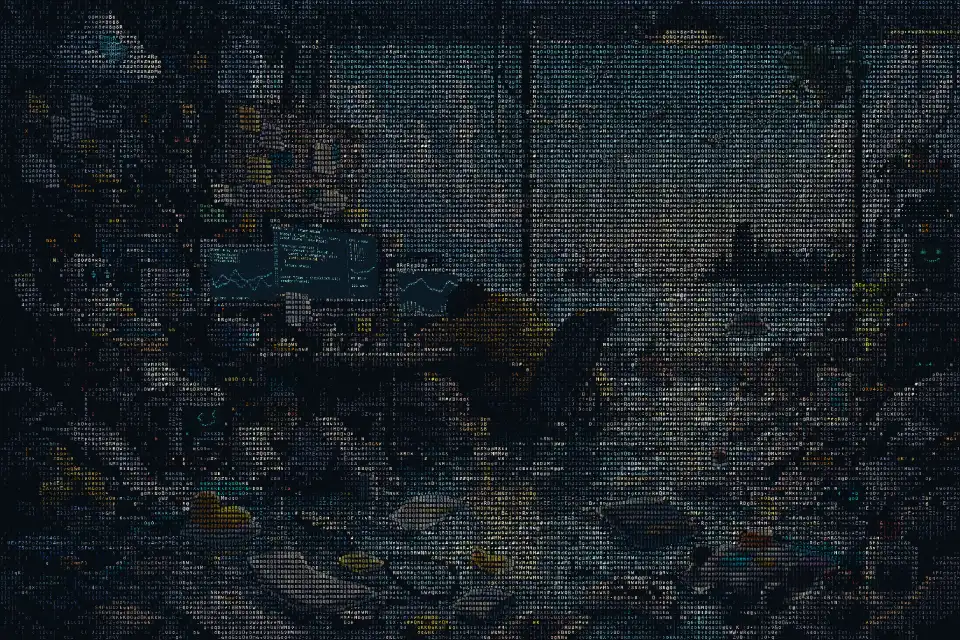
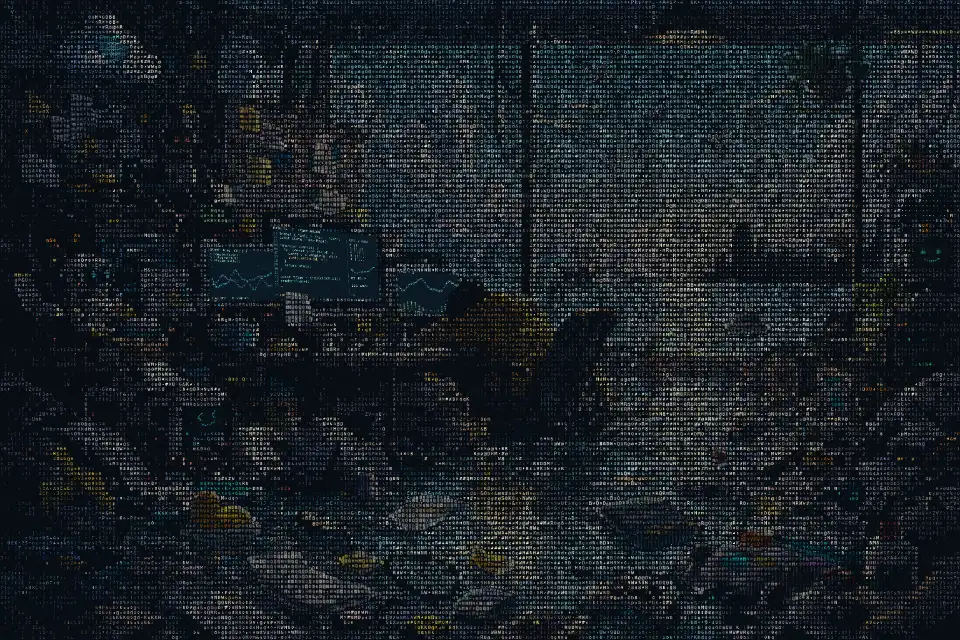
Mix ASCII sizes locally across the sky, room and floating objects

diff --git a/ascii-renderer.js b/ascii-renderer.js
@@ -1,13 +1,13 @@
-import { scenePixelRatio } from './render-budget.js?v=20261111-scatter23';
+import { scenePixelRatio } from './render-budget.js?v=20261111-mixed24';
 import { createCanvas } from './canvas-factory.js?v=20261110-fps10';
 import { detailShapes, detailPoint, eyeOpening, cloudWindows, cloudSpeed, emitters } from './scene-details.js?v=20261110-depth6';
-import { GlyphAtlas, glyphColor } from './glyph-atlas.js?v=20261111-scatter23';
-import { screens, paintScreen } from './screen-content.js?v=20261111-scatter23';
-import { faceLight, lampColor } from './scene-lights.js?v=20261111-scatter23';
+import { GlyphAtlas, glyphColor } from './glyph-atlas.js?v=20261111-mixed24';
+import { screens, paintScreen } from './screen-content.js?v=20261111-mixed24';
+import { faceLight, lampColor } from './scene-lights.js?v=20261111-mixed24';
 import { quadPoint, drawQuad } from './scene-geometry.js?v=20261110-fps10';
-import { GlyphMotion } from './glyph-motion.js?v=20261111-scatter23';
-import { SpriteAtlas } from './sprite-atlas.js?v=20261111-scatter23';
-import { sceneGlyph, glyphAt, prepareGlyph, glyphVariant } from './glyph-rhythm.js?v=20261111-scatter23';
+import { GlyphMotion } from './glyph-motion.js?v=20261111-mixed24';
+import { SpriteAtlas } from './sprite-atlas.js?v=20261111-mixed24';
+import { sceneGlyph, glyphAt, prepareGlyph, glyphVariant } from './glyph-rhythm.js?v=20261111-mixed24';
 
 // Source-image coordinates keep motion, perspective and hit targets in agreement.
 export const birds = [
@@ -45,9 +45,13 @@ export function inside(x, y, polygon) {
 }
 const clamp = (x, low = 0, high = 1) => Math.max(low, Math.min(high, x));
 const hash = (x, y) => { const n = Math.sin(x * 127.1 + y * 311.7) * 43758.5453; return n - Math.floor(n); };
-// Give the readable 1.1–1.3 sizes most of the image; reserve small letters
-// for fine detail instead of making them dominate every surface.
-const sizeStops=[.005,.015,.035,.075,.155,.375,.675,.905,.975,1];
+// Interleave small and large letters locally, independently of symbol choice
+// and negative space. Sizes are assigned once, not randomized each frame.
+const sizeStops=[.015,.04,.09,.17,.29,.46,.66,.84,.95,1];
+const mixedSize=(x,y)=>{
+  const seed=hash(x+137,y+271);
+  return fontSizes[sizeStops.findIndex(stop=>seed<stop)];
+};
 const light = c => (.2126 * c[0] + .7152 * c[1] + .0722 * c[2]) / 255;
 const color = c => `rgb(${c.map(v => Math.round(255 * (clamp(v / 255) ** .84))).join(' ')})`;
 const glyph = sceneGlyph;
@@ -371,13 +375,12 @@ export class AsciiRenderer {
         const [x,y,w,h]=source.box;
         return smooth(Math.min(sx-x,x+w-sx,sy-y,y+h-sy)/28);
       }));
-      // Most letters share a calm middle weight. Retain all ten size steps,
-      // but use the extremes sparingly instead of making every surface noisy.
-      const variedSize=fontSizes[sizeStops.findIndex(stop=>seed<stop)];
-      const calmSize=variedSize+(1.2-variedSize)*skyWeight*.35;
+      // The sky shares the same local size variety as the room; do not pull
+      // whole regions toward one size. Keep silhouette protection at edges.
+      const variedSize=mixedSize(col,row);
       // Large glyphs crossing high-contrast silhouettes made bright outlines.
       // Keep the requested size bins, with smaller glyphs at those edges.
-      const edgeSize=calmSize+(Math.min(calmSize,1.3)-calmSize)*smooth((contrast-45)/100);
+      const edgeSize=variedSize+(Math.min(variedSize,1.3)-variedSize)*smooth((contrast-45)/100);
       const size=isCity ? minFontSize : fontStep(edgeSize);
       // Open up the dark room edges, not the colorful sky or bright water.
       // Featureless shadows may stay entirely empty; wider sampling protects
@@ -450,7 +453,11 @@ export class AsciiRenderer {
         }
         if (count < 3) continue;
         const rgb = sum.map(v => v / count);
-        cells.push({ sx: px / count, sy: py / count, glyph: glyph(rgb, hash(sx, sy)), color: color(rgb), size: region.bird ? minFontSize : fontStep(detail*(1 + .2 * clamp(count / (xStep * yStep)))) });
+        const coverage=clamp(count/(xStep*yStep));
+        // Papers and floats use the room's mixed sizes. Keep tiny LED features
+        // legible and trim large letters at partially covered object edges.
+        const size=region.bird?minFontSize:detail<1?fontStep(detail*(1+.2*coverage)):fontStep(Math.min(mixedSize(sx,sy),1+.5*coverage));
+        cells.push({ sx: px / count, sy: py / count, glyph: glyph(rgb, hash(sx, sy)), color: color(rgb), size });
       }
       return cells;
     };

diff --git a/index.html b/index.html
@@ -7,35 +7,35 @@
   <meta name="description" content="jaq/li 的个人博客：技术、生活与研究。" />
   <title>jaq/li</title>
   <link rel="icon" href="./assets/favicon.svg" type="image/svg+xml" />
-  <link rel="stylesheet" href="./styles.css?v=20261111-scatter23" />
-  <link rel="preload" href="./assets/scene-preview.webp?v=20261111-scatter23" as="image" fetchpriority="high" />
+  <link rel="stylesheet" href="./styles.css?v=20261111-mixed24" />
+  <link rel="preload" href="./assets/scene-preview.webp?v=20261111-mixed24" as="image" fetchpriority="high" />
   <link rel="preload" href="./assets/scene.webp?v=20261110-depth6" as="fetch" crossorigin="anonymous" fetchpriority="low" />
-  <link rel="modulepreload" href="./ascii-renderer.js?v=20261111-scatter23" />
-  <link rel="modulepreload" href="./scene-renderer.js?v=20261111-scatter23" />
-  <link rel="modulepreload" href="./flight-layer.js?v=20261111-scatter23" />
-  <link rel="modulepreload" href="./render-budget.js?v=20261111-scatter23" />
-  <link rel="modulepreload" href="./scene-layers.js?v=20261111-scatter23" />
-  <link rel="modulepreload" href="./scene-snapshot.js?v=20261111-scatter23" />
+  <link rel="modulepreload" href="./ascii-renderer.js?v=20261111-mixed24" />
+  <link rel="modulepreload" href="./scene-renderer.js?v=20261111-mixed24" />
+  <link rel="modulepreload" href="./flight-layer.js?v=20261111-mixed24" />
+  <link rel="modulepreload" href="./render-budget.js?v=20261111-mixed24" />
+  <link rel="modulepreload" href="./scene-layers.js?v=20261111-mixed24" />
+  <link rel="modulepreload" href="./scene-snapshot.js?v=20261111-mixed24" />
   <link rel="modulepreload" href="./canvas-factory.js?v=20261110-fps10" />
   <link rel="modulepreload" href="./site.config.js?v=20261110-flight11" />
   <link rel="modulepreload" href="./scene-loader.js?v=20261110-depth6" />
-  <link rel="modulepreload" href="./screen-content.js?v=20261111-scatter23" />
-  <link rel="modulepreload" href="./scene-lights.js?v=20261111-scatter23" />
-  <link rel="modulepreload" href="./navigation.js?v=20261111-scatter23" />
+  <link rel="modulepreload" href="./screen-content.js?v=20261111-mixed24" />
+  <link rel="modulepreload" href="./scene-lights.js?v=20261111-mixed24" />
+  <link rel="modulepreload" href="./navigation.js?v=20261111-mixed24" />
   <link rel="modulepreload" href="./scene-details.js?v=20261110-depth6" />
-  <link rel="modulepreload" href="./glyph-atlas.js?v=20261111-scatter23" />
-  <link rel="modulepreload" href="./glyph-motion.js?v=20261111-scatter23" />
-  <link rel="modulepreload" href="./glyph-rhythm.js?v=20261111-scatter23" />
-  <link rel="modulepreload" href="./sprite-atlas.js?v=20261111-scatter23" />
+  <link rel="modulepreload" href="./glyph-atlas.js?v=20261111-mixed24" />
+  <link rel="modulepreload" href="./glyph-motion.js?v=20261111-mixed24" />
+  <link rel="modulepreload" href="./glyph-rhythm.js?v=20261111-mixed24" />
+  <link rel="modulepreload" href="./sprite-atlas.js?v=20261111-mixed24" />
   <link rel="modulepreload" href="./scene-geometry.js?v=20261110-fps10" />
   <link rel="modulepreload" href="./scene-floats.js?v=20261110-depth6" />
-  <script type="module" src="./app.js?v=20261111-scatter23"></script>
+  <script type="module" src="./app.js?v=20261111-mixed24"></script>
 </head>
 <body class="home">
   <main id="scene-viewport" class="scene-viewport" aria-label="可探索的海边工作室">
     <div id="scene-world" class="scene-world">
       <img id="scene-image" class="scene-image" alt="海边工作室：电脑屏幕通往技术博客，人物通往个人 CV。" />
-      <img id="scene-poster" class="scene-poster" src="./assets/scene-preview.webp?v=20261111-scatter23" fetchpriority="high" alt="" aria-hidden="true" />
+      <img id="scene-poster" class="scene-poster" src="./assets/scene-preview.webp?v=20261111-mixed24" fetchpriority="high" alt="" aria-hidden="true" />
       <canvas id="ascii-canvas" aria-hidden="true"></canvas>
       <div id="motion-layers" class="motion-layers" aria-hidden="true"></div>
       <div id="flight-layer" class="flight-layer" aria-hidden="true"></div>

diff --git a/scene-renderer.js b/scene-renderer.js
@@ -1,6 +1,6 @@
-import { scenePixelRatio } from './render-budget.js?v=20261111-scatter23';
-import { SceneLayers } from './scene-layers.js?v=20261111-scatter23';
-import { AsciiRenderer } from './ascii-renderer.js?v=20261111-scatter23';
+import { scenePixelRatio } from './render-budget.js?v=20261111-mixed24';
+import { SceneLayers } from './scene-layers.js?v=20261111-mixed24';
+import { AsciiRenderer } from './ascii-renderer.js?v=20261111-mixed24';
 
 class WorkerRenderer {
   constructor(worker,canvas) {
@@ -52,7 +52,7 @@ class WorkerRenderer {
 // Start loading the worker/modules while the compressed scene downloads.
 export function prepareSceneRenderer(canvas){
   if(typeof Worker==='undefined'||typeof OffscreenCanvas==='undefined'||typeof createImageBitmap!=='function'||typeof canvas.transferControlToOffscreen!=='function')return null;
-  try{return new WorkerRenderer(new Worker(new URL('./scene-worker.js?v=20261111-scatter23',import.meta.url),{type:'module'}),canvas);}catch{return null;}
+  try{return new WorkerRenderer(new Worker(new URL('./scene-worker.js?v=20261111-mixed24',import.meta.url),{type:'module'}),canvas);}catch{return null;}
 }
 
 export async function createSceneRenderer(image,canvas,onProgress,prepared=prepareSceneRenderer(canvas)) {

diff --git a/app.js b/app.js
@@ -1,10 +1,10 @@
-import { scenePixelRatio, sceneFrameInterval } from './render-budget.js?v=20261111-scatter23';
+import { scenePixelRatio, sceneFrameInterval } from './render-budget.js?v=20261111-mixed24';
 import { site } from './site.config.js?v=20261110-flight11';
-import { FlightLayer } from './flight-layer.js?v=20261111-scatter23';
+import { FlightLayer } from './flight-layer.js?v=20261111-mixed24';
 import { detailShapes, detailPoint } from './scene-details.js?v=20261110-depth6';
-import { createSceneRenderer, prepareSceneRenderer } from './scene-renderer.js?v=20261111-scatter23';
+import { createSceneRenderer, prepareSceneRenderer } from './scene-renderer.js?v=20261111-mixed24';
 import { loadSceneImage } from './scene-loader.js?v=20261110-depth6';
-import './navigation.js?v=20261111-scatter23';
+import './navigation.js?v=20261111-mixed24';
 
 const viewport = document.querySelector('#scene-viewport');
 const world = document.querySelector('#scene-world');

diff --git a/layered-scene.js b/layered-scene.js
@@ -1,8 +1,8 @@
-import { GlyphBatch } from './glyph-batch.js?v=20261111-scatter23';
-import { waterSampleInterval } from './render-budget.js?v=20261111-scatter23';
-import { paintScreen } from './screen-content.js?v=20261111-scatter23';
-import { fontStep, fontIncrement } from './ascii-renderer.js?v=20261111-scatter23';
-import { glyphVariant } from './glyph-rhythm.js?v=20261111-scatter23';
+import { GlyphBatch } from './glyph-batch.js?v=20261111-mixed24';
+import { waterSampleInterval } from './render-budget.js?v=20261111-mixed24';
+import { paintScreen } from './screen-content.js?v=20261111-mixed24';
+import { fontStep, fontIncrement } from './ascii-renderer.js?v=20261111-mixed24';
+import { glyphVariant } from './glyph-rhythm.js?v=20261111-mixed24';
 
 function screenMatrix(quad,w,h,scale){
   const [[x0,y0],[x1,y1],[x2,y2],[x3,y3]]=quad,dx1=x1-x2,dx2=x3-x2,dx3=x0-x1+x2-x3,dy1=y1-y2,dy2=y3-y2,dy3=y0-y1+y2-y3;

diff --git a/flight-layer.js b/flight-layer.js
@@ -1,6 +1,6 @@
-import { birdPose, minFontSize } from './ascii-renderer.js?v=20261111-scatter23';
-import { SpriteAtlas } from './sprite-atlas.js?v=20261111-scatter23';
-import { glyphVariant } from './glyph-rhythm.js?v=20261111-scatter23';
+import { birdPose, minFontSize } from './ascii-renderer.js?v=20261111-mixed24';
+import { SpriteAtlas } from './sprite-atlas.js?v=20261111-mixed24';
+import { glyphVariant } from './glyph-rhythm.js?v=20261111-mixed24';
 const clamp=(v,lo=0,hi=1)=>Math.max(lo,Math.min(hi,v));
 
 // Tiny transparent bird canvases move at display cadence. Their transforms do

diff --git a/glyph-motion.js b/glyph-motion.js
@@ -1,7 +1,7 @@
-import { glyphColor } from './glyph-atlas.js?v=20261111-scatter23';
-import { SpriteAtlas } from './sprite-atlas.js?v=20261111-scatter23';
+import { glyphColor } from './glyph-atlas.js?v=20261111-mixed24';
+import { SpriteAtlas } from './sprite-atlas.js?v=20261111-mixed24';
 
-import { glyphAt } from './glyph-rhythm.js?v=20261111-scatter23';
+import { glyphAt } from './glyph-rhythm.js?v=20261111-mixed24';
 export const glyphUpdateLimit=8192; // changed characters per draw; old states are skipped
 
 // Every retained letter has its own 1.2–1.5 Hz clock and symbol sequence.

diff --git a/scene-worker.js b/scene-worker.js
@@ -1,5 +1,5 @@
-import { AsciiRenderer } from './ascii-renderer.js?v=20261111-scatter23';
-import { LayeredScene } from './layered-scene.js?v=20261111-scatter23';
+import { AsciiRenderer } from './ascii-renderer.js?v=20261111-mixed24';
+import { LayeredScene } from './layered-scene.js?v=20261111-mixed24';
 let renderer,display,layers,revision=0;
 let queue=Promise.resolve();
 self.onmessage=({data})=>{

diff --git a/sprite-atlas.js b/sprite-atlas.js
@@ -1,5 +1,5 @@
 import { createCanvas } from './canvas-factory.js?v=20261110-fps10';
-import { prepareGlyph } from './glyph-rhythm.js?v=20261111-scatter23';
+import { prepareGlyph } from './glyph-rhythm.js?v=20261111-mixed24';
 
 // Pack just the ink and one transparent border pixel. Deduplicating by actual
 // symbol/color keeps a richer alphabet close to the old two-letter atlas size.

diff --git a/glyph-rhythm.js b/glyph-rhythm.js
@@ -1,5 +1,5 @@
 import { createCanvas } from './canvas-factory.js?v=20261110-fps10';
-import { glyphColor } from './glyph-atlas.js?v=20261111-scatter23';
+import { glyphColor } from './glyph-atlas.js?v=20261111-mixed24';
 
 // All visible ASCII characters. Space is represented by the stable scene mask;
 // control characters have no printable shape.

diff --git a/scene-layers.js b/scene-layers.js
@@ -1,4 +1,4 @@
-import { waterSampleInterval } from './render-budget.js?v=20261111-scatter23';
+import { waterSampleInterval } from './render-budget.js?v=20261111-mixed24';
 import { detailPoint } from './scene-details.js?v=20261110-depth6';
 
 // The browser composites small canvases in their original image coordinates.

diff --git a/navigation.js b/navigation.js
@@ -1,4 +1,4 @@
-import { drawSceneLayers } from './scene-snapshot.js?v=20261111-scatter23';
+import { drawSceneLayers } from './scene-snapshot.js?v=20261111-mixed24';
 const reducedMotion = matchMedia('(prefers-reduced-motion: reduce)');
 let navigating = false;
 let overlay;
